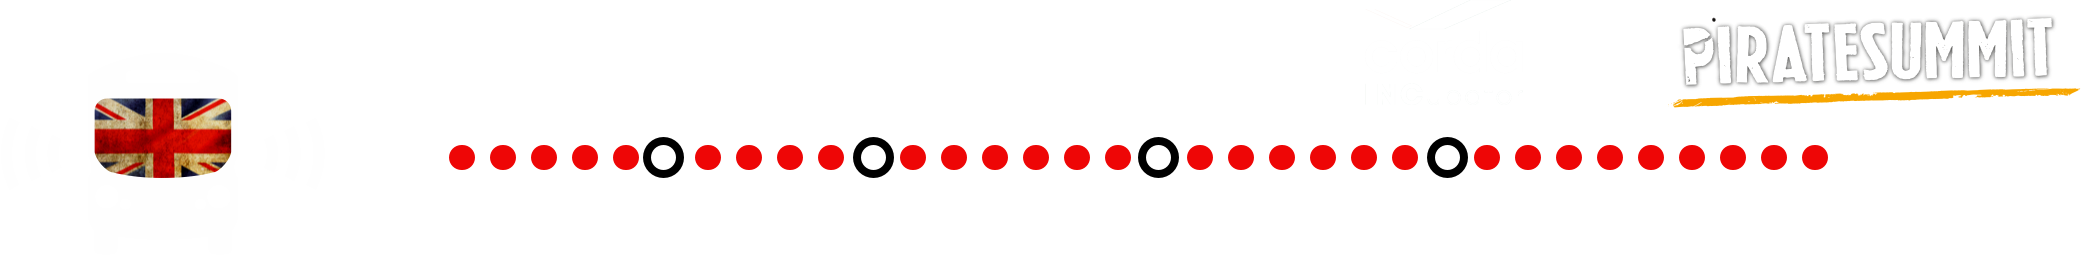
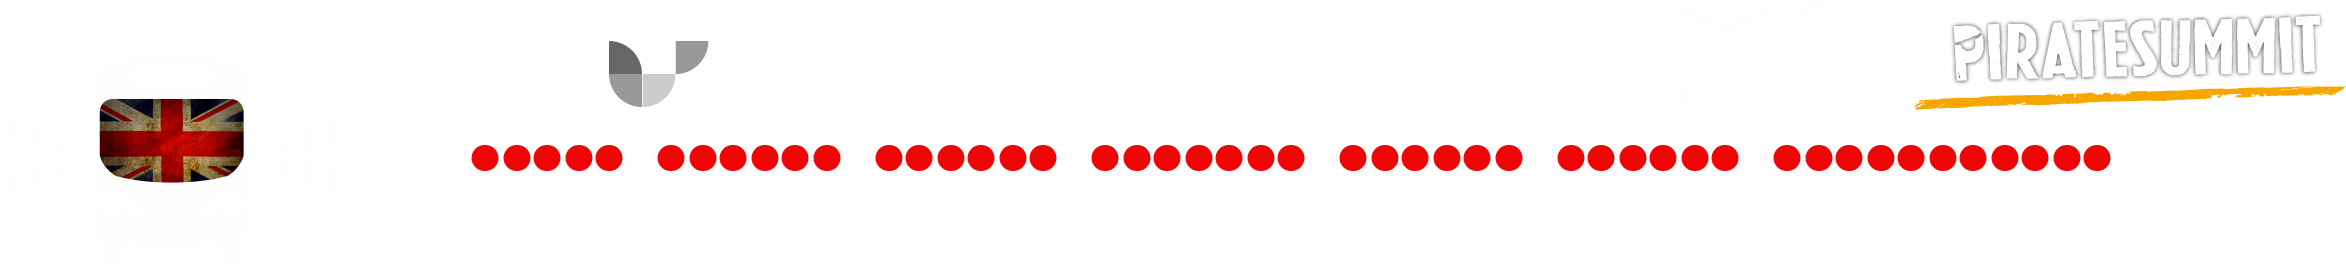
Updated UK route

diff --git a/bus/uk/index.html b/bus/uk/index.html
@@ -264,7 +264,7 @@ In this amazing journey, you'll meet <strong>awesome people and learn new skills
 		<section class="module bg-dark route-module">
 			<div class="container">
 				<div class="row">
-				    <div class="col-sm-8 col-sm-offset-2">
+				    <div class="col-sm-10 col-sm-offset-1">
 				    	<h2 class="module-title font-alt">The Route</h2>
 				        <img src="route.png" alt="Bus Route" class="route-image" />
 				    </div>
